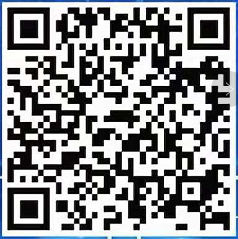
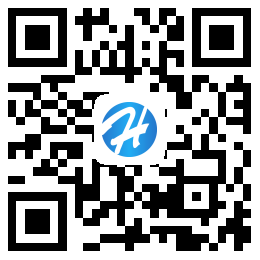
pc

diff --git a/src/components/c2c.vue b/src/components/c2c.vue
@@ -257,7 +257,7 @@
                                 <div v-if="item.type == 1&&item.status == 1" class="btn-last" @click="cancelComplete('complete',item.id,index)">确认收款</div>
                                 <span class="show-detail" v-if="item.status_name == '已成功' ">{{item.status_name}}</span>
                                 <span class="show-detail" v-if="item.status_name == '已取消' ">{{item.status_name}}</span>
-                                <span class="show-detail" @click="getDetail(item.id,'c2c',$event)">详情</span>
+                                <span class="show-detail" @click="getDetail(item.id,'myc2c',$event)">详情</span>
                             </div>
                         </li>
                         <!-- <li class="flex">
@@ -323,10 +323,9 @@
                             <span>{{detail.c2c.type==0?'买家':'卖家'}}姓名：</span><span>{{detail.c2c.name}}</span>
                         </div>
                     </div>
-                    <div class="myC2cDetail" v-if="detail.type=='myC2c'">
-                        <!-- <div>
-                          <span>我的账号：</span><span>{{detail.user_info.account_number}}</span>
-                        </div> -->
+                    
+                    <div class="myC2cDetail" v-if="detail.type=='myc2c'">
+                     
                         <div>
                             <span>交易类型：</span><span>{{detail.c2c.type_name}}</span>
                         </div>
@@ -336,8 +335,22 @@
                         <div>
                             <span>价  格：</span><span>{{detail.c2c.price}}</span>
                         </div>
-                        <div>
-                            <span>详  情：</span><span>{{detail.c2c.content}}</span>
+                        <div v-if="detail.c2c.status!=0"> 
+                          <div>
+                            <span>交易人：</span><span>{{detail.transaction_account_info.account_number}}</span>
+                          </div>
+                          <div>
+                            <span>姓 名：</span><span>{{detail.transaction_account_info.real_name}}</span>
+                          </div>
+                          <div>
+                            <span>微 信:</span><span>{{detail.transaction_account_info.wechat_account}}</span>
+                          </div>
+                          <div>
+                            <span>支付宝:</span><span>{{detail.transaction_account_info.alipay_account}}</span>
+                          </div>
+                          <div>
+                            <span>银行卡:</span><span>{{detail.transaction_account_info.bank_name}}{{detail.transaction_account_info.bank_account}}</span>
+                          </div>
                         </div>
                     </div>
                     <div class="trade-detail" v-if="detail.type=='trade'">
@@ -357,7 +370,7 @@
                             <span>详  情：</span><span>{{detail.c2c.content}}</span>
                         </div>
                         <div>
-                            <span>交易人 ：</span><span>{{detail.user_info.account_number}}</span>
+                            <span>交易人：</span><span>{{detail.user_info.account_number}}</span>
                         </div>
                         <div>
                             <span>姓  名：</span><span>{{detail.c2c.name}}</span>
@@ -366,17 +379,20 @@
                             <span>微信账号：</span><span>{{detail.account_info.wechat_account}}</span>
                         </div>
                         <div>
-                            <span>银行卡 ：</span><span>{{detail.account_info.bank_name}}{{detail.account_info.bank_account}}</span>
+                            <span>银行卡：</span><span>{{detail.account_info.bank_name}}{{detail.account_info.bank_account}}</span>
                         </div>
                         <div>
-                            <span>支付宝 ：</span><span>{{detail.account_info.alipay_account}}</span>
+                            <span>支付宝：</span><span>{{detail.account_info.alipay_account}}</span>
                         </div>
                     </div>
                     <div class="num">
-                        <span>数  量：</span><span>{{detail.c2c.number}}</span>
+                      <span>数  量：</span><span>{{detail.c2c.number}}</span>
                     </div>
                     <div>
-                        <span>手续费：</span><span>{{((detail.c2c.c2c_ratio-0)*(detail.c2c.number-0).toFixed(4))}}</span>
+                      <span>手续费：</span><span>{{((detail.c2c.c2c_ratio-0)*(detail.c2c.number-0).toFixed(4))}}</span>
+                    </div>
+                    <div>
+                      <span>状 态：</span><span class="blue">{{detail.c2c.status_name}}</span>
                     </div>
                     <!-- <div class="pay">
                         <span>支付方式：</span><span>{{detail.c2c.pay_mode}}</span>
@@ -515,7 +531,21 @@ export default {
     },
     // c2c列表买入卖出
     buySell(id, type) {
+      var that = this;
       // this.showDetail  = false;
+      if(type=='buy'){
+      layer.confirm('必须在30分钟内完成付款，否则将会被冻结账号确认下单？', {
+          btn: ['确认','取消'] //按钮
+        }, function(){
+          that.buyandsell(id,type);
+        }, function(){
+          layer.msg('取消成功');
+        });
+      }else{
+        that.buyandsell(id,type);
+      }
+    },
+    buyandsell(id,type){
       let  i = layer.load();
       this.$http({
         url: "/api/c2c/" + type,
@@ -606,6 +636,7 @@ export default {
           this.detail.c2c = res.data.message.c2c;
           this.detail.account_info = res.data.message.account_info;
           this.detail.user_info = res.data.message.user_info;
+          this.detail.transaction_account_info = res.data.message.transaction_account_info;
           this.detail.type = type;
           if (res.data.message.transaction_user) {
             this.detail.transaction_user = res.data.message.transaction_user;
@@ -1047,4 +1078,5 @@ export default {
 }
 #c2c-box > .c2c-r > .bot .ul-out li > div.red{color:#ca4141}
 #c2c-box > .c2c-r > .bot .ul-out li > div.blue{color: #25796a}
+.blue{color: #25796a}
 </style>

diff --git a/src/view/indexHeader.vue b/src/view/indexHeader.vue
@@ -16,7 +16,7 @@
       </div>
       <div>
         <div class="download">
-          <div>app下载</div>
+          <div class="curPer">app下载</div>
           <img src="../assets/images/ewm.png" alt="">
         </div>
       </div>
@@ -151,6 +151,7 @@ export default {
     }
     .download{
       position: relative;
+      
       img{
         position: absolute;
         display: none;
@@ -160,6 +161,7 @@ export default {
         left: -20px;
       }
       &:hover{
+        color: #d45858;
         img{
           display: block;
         }
